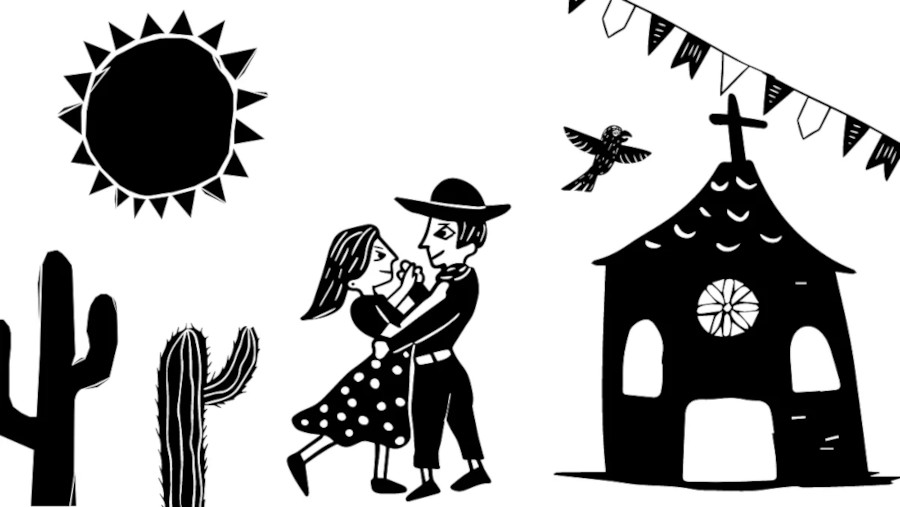
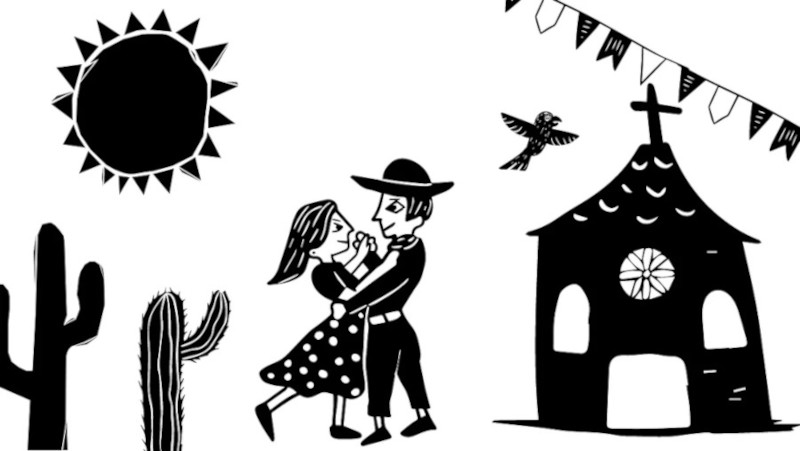
atualizei imagens

diff --git a/desafios/d012/estilo/style.css b/desafios/d012/estilo/style.css
@@ -83,13 +83,16 @@ section.imagem > p {
 }
 
 section#img01 {
-    background-image: url('../imagens/fundo01.jpg');
+    background-image: url('../imagens/fundo01correto.jpg');
     background-position: left center;
+    
    
 }
 
+
+
 section#img02 {
-    background-image: url('../imagens/fundo02.jpg');
+    background-image: url('../imagens/fundo02correto.jpg');
     
 }
 

diff --git a/desafios/d012/index.html b/desafios/d012/index.html
@@ -33,7 +33,7 @@
             
 
             <section class="imagem" id="img01">
-                <p>
+                <p class="paragrafo-img-01">
                     Não é mais como era antes <br>
                     É tudo abreviado <br>
                     "Você" só tem duas letras <br>
